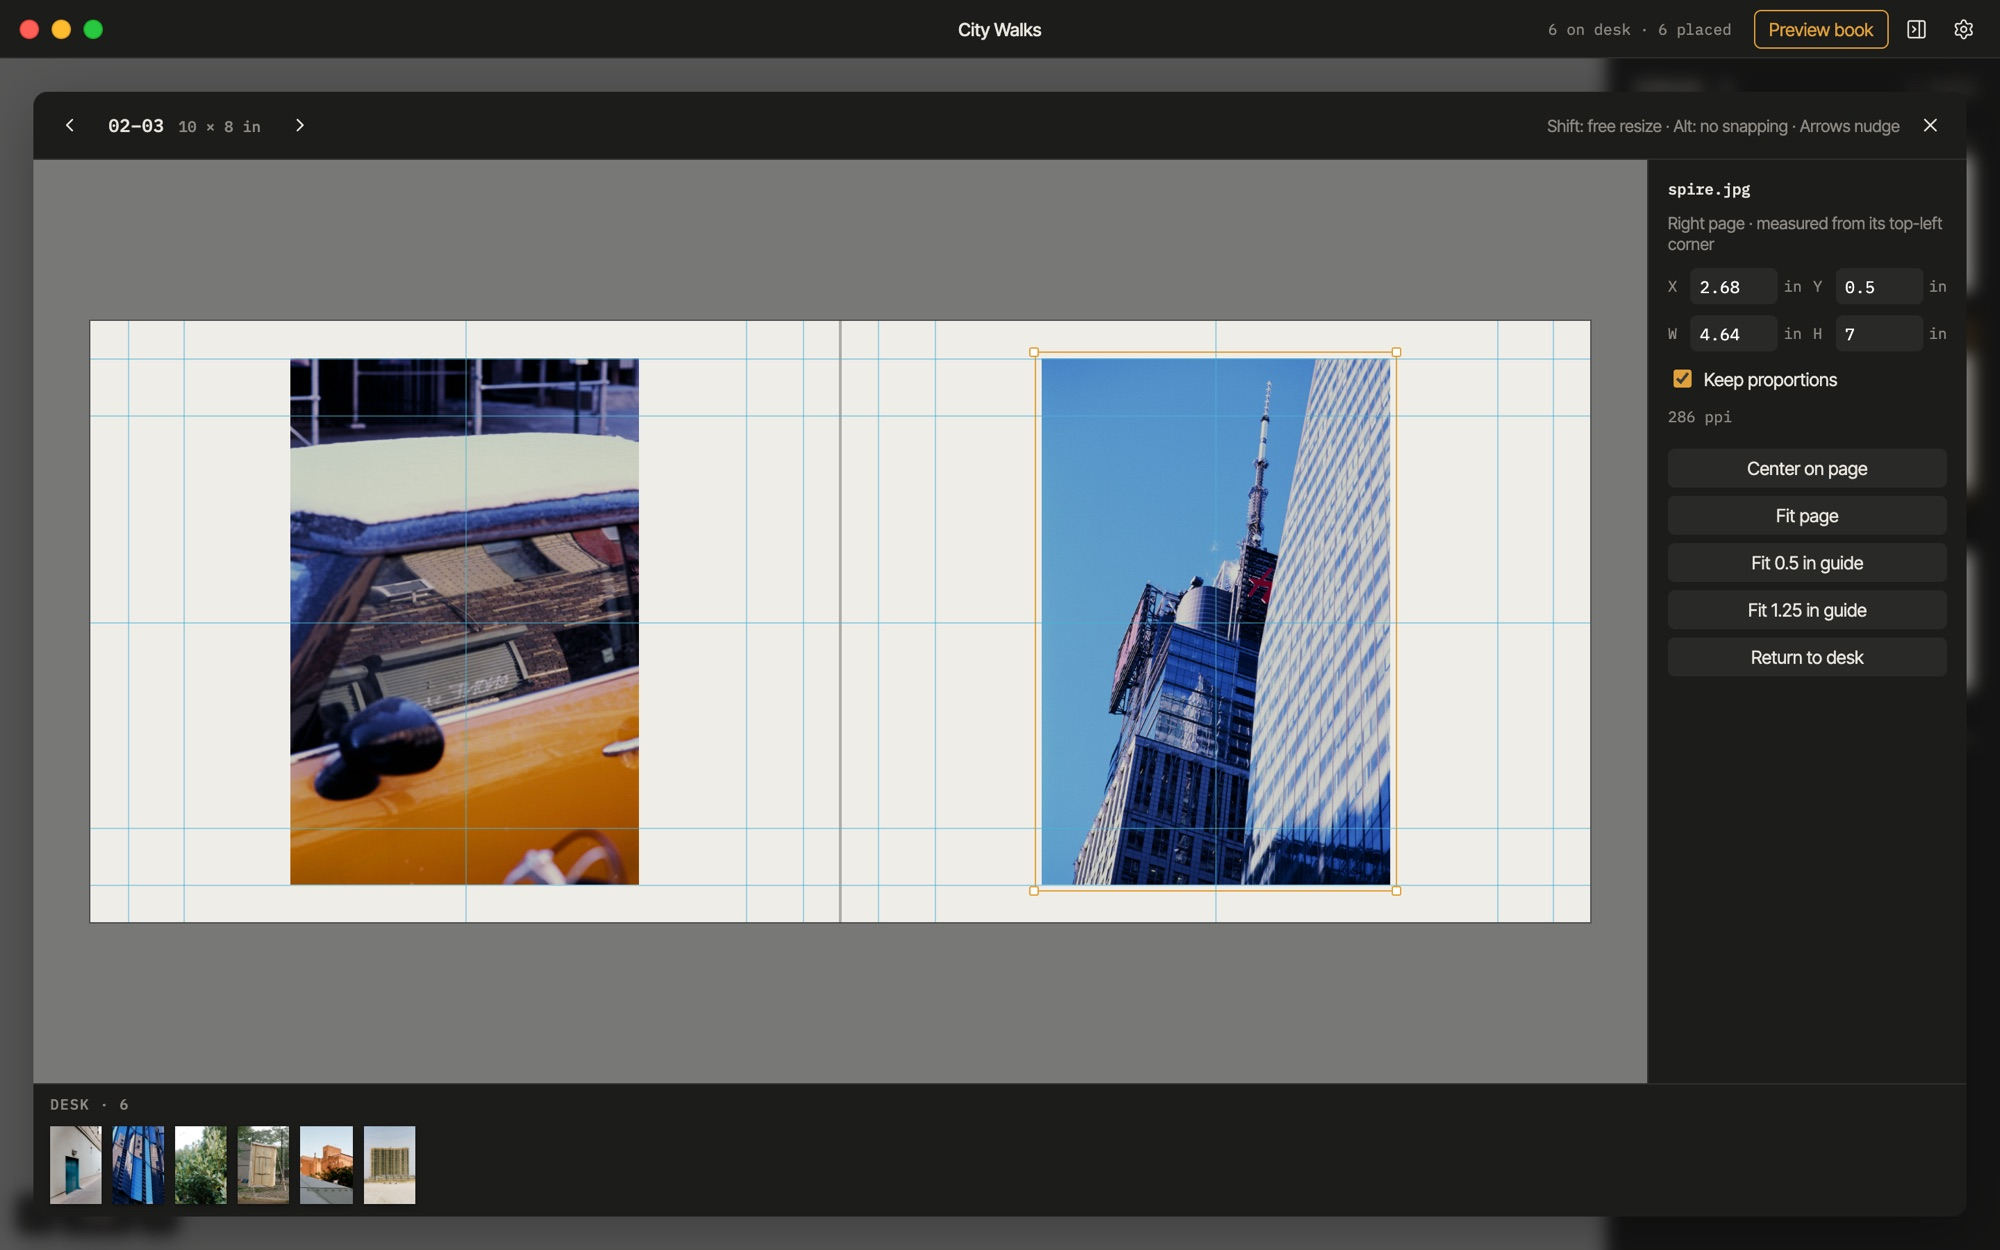
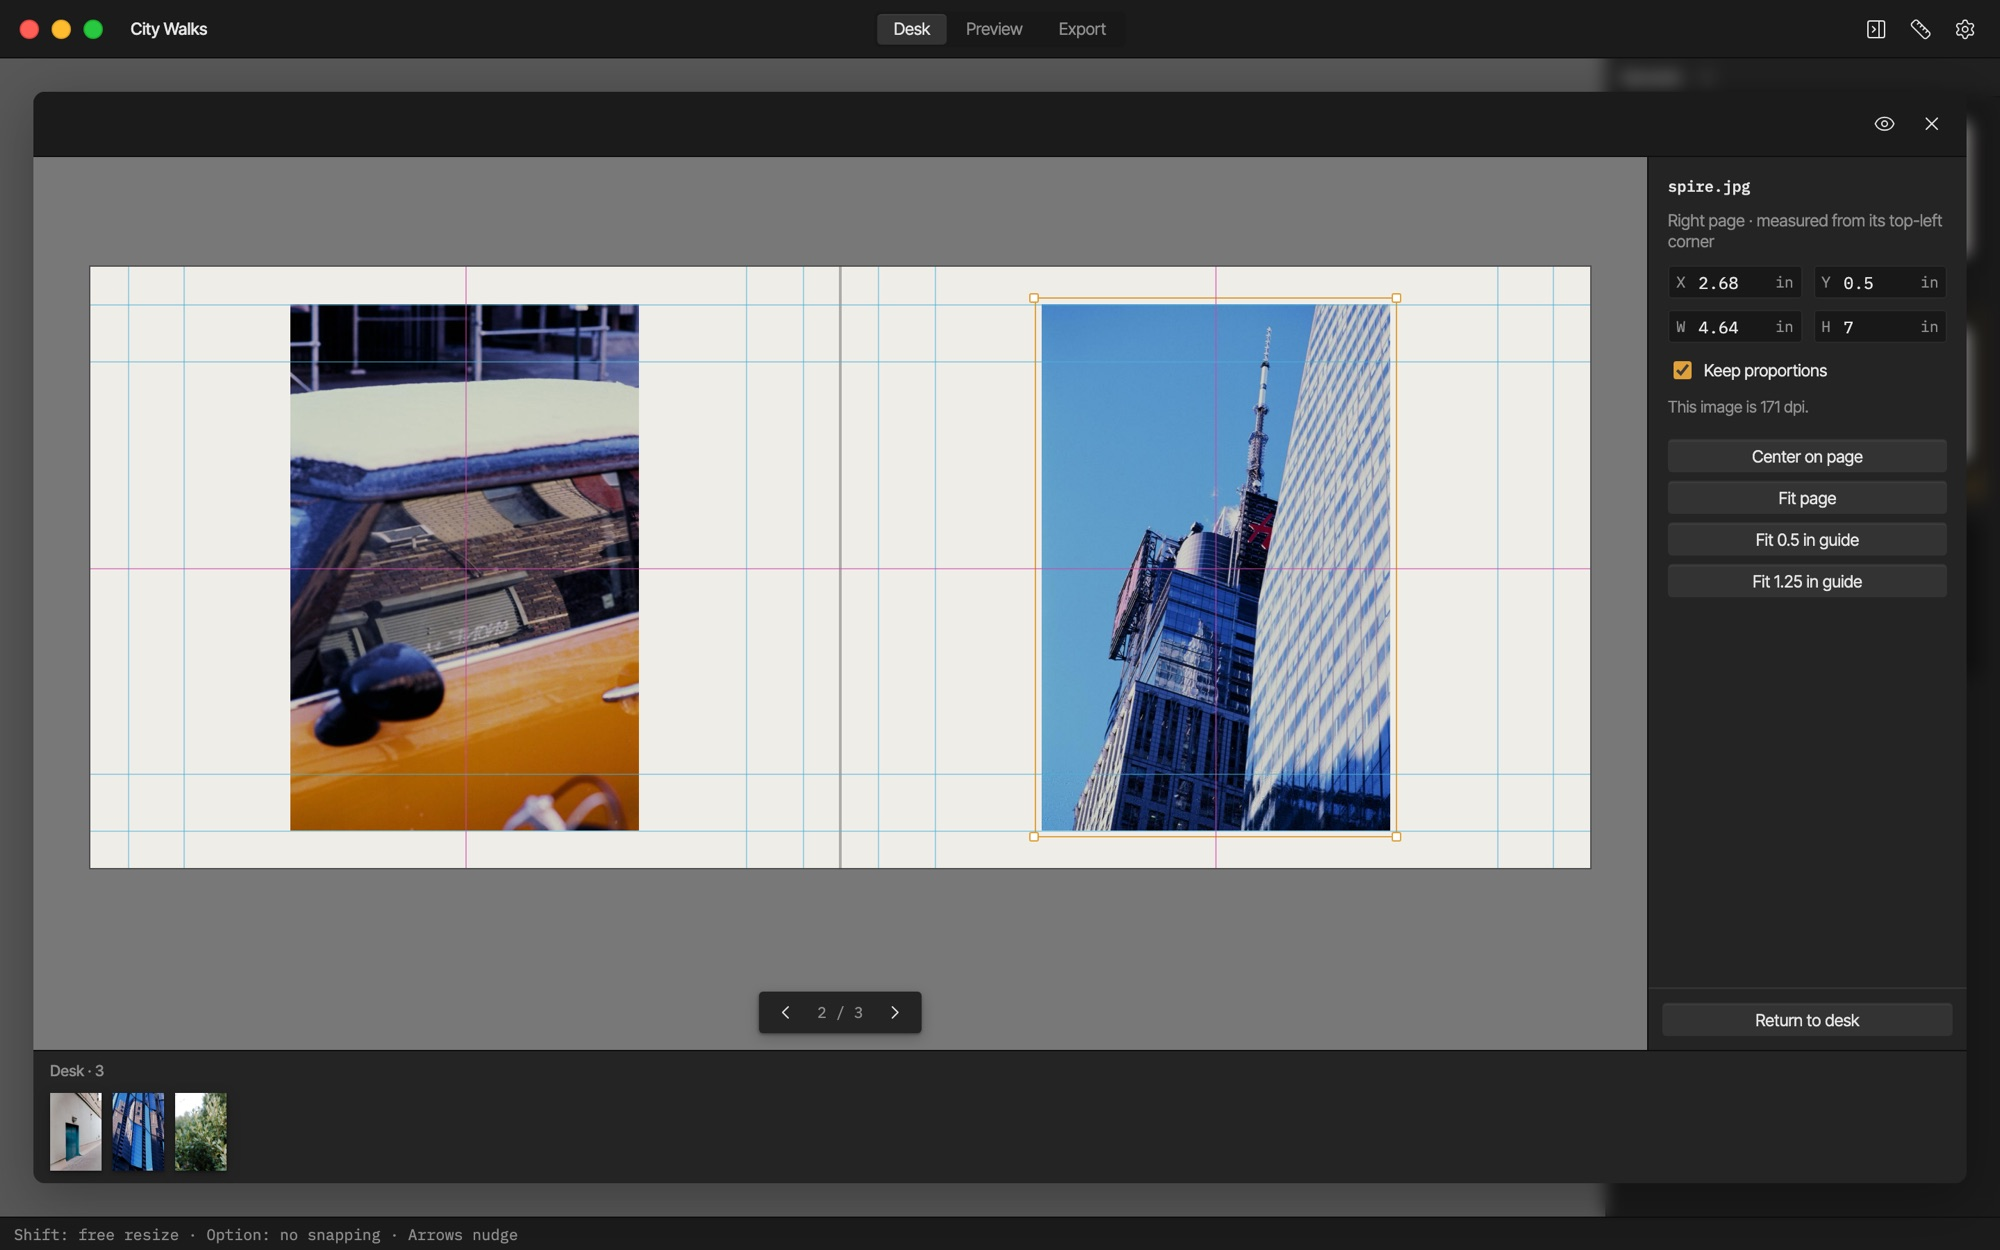
Screenshots for 2.0: npm run screenshots retakes the App Store's (now with Export), the README's, and the landing page's from the Mac app's interface, with the six sample photos; a skill for it in .claude/skills/screenshots

diff --git a/.claude/skills/screenshots/SKILL.md b/.claude/skills/screenshots/SKILL.md
@@ -1,0 +1,44 @@
+---
+name: screenshots
+description: Retake Sequence's screenshots (App Store, README, landing page) from the current UI with the six sample photos. Use when the UI has changed before a release, or when asked to update, retake, or add screenshots.
+---
+
+# Screenshots
+
+`npm run screenshots` (`scripts/screenshots.mjs`) takes every screenshot from the Mac app's
+interface as it is now: the Mac build's web side (`vite --mode app` on :5176, started if it
+isn't running) in headless Chromium at 1440 × 900 pt @2x, with Tauri stubbed out and the
+traffic lights drawn in. The project is "City Walks": the six sample photos in `src/tour/`,
+three on the desk and three placed in a four-page book at 150 dpi (so nothing is marked low
+resolution). Dark theme. It writes:
+
+| File                                         | Use                                        |
+| -------------------------------------------- | ------------------------------------------ |
+| `docs/app-store/1-desk.png` … `5-export.png` | App Store Connect (2880 × 1800, Mac 16:10) |
+| `docs/screenshot.jpg`                        | The README (the desk)                      |
+| `site/landing/landing-*.jpg`                 | The landing page's four (2000 × 1250)      |
+
+## Steps
+
+1. Run it: `npm run screenshots`. `--only desk,preview` retakes some (matched against the
+   names: desk, spread, preview, quick, export). `--photos <dir>` uses larger copies of the
+   samples (same file names) for sharper shots; ask the user for them if the shots look soft.
+2. Look at every PNG (downscale with `sips -Z 1440` to a scratch folder first) before
+   committing: nothing cut off, no warnings or empty states that weren't meant, the traffic
+   lights clear of the toolbar's content, text legible.
+3. If the UI changed shape (a class name, a page, a store), fix the script rather than
+   editing images: it reaches into the app through its own modules (served under
+   `/@fs/<repo>/src/`, so the script shares the app's module instances; plain `/src/...`
+   would load second copies).
+4. If a shot was added, removed, or reordered: the landing page's `<img>`s and captions in
+   `site/index.html` match the four `landing-*` files; App Store Connect takes up to 10.
+5. Commit the images with the script change (if any).
+
+## Rules
+
+- Only the six sample photos in `src/tour/` (or larger copies of the same six from the
+  user). Never other photos, the user's own files, or the Mac app's real data.
+- The script uses a throwaway browser profile; it doesn't touch the dev server's data on
+  :5175 or anything else.
+- App Store screenshots must show the app as it ships: don't stage features that aren't in
+  the build.

diff --git a/AGENTS.md b/AGENTS.md
@@ -69,7 +69,8 @@ when the Mac app, saving, or exports change. The first `test:e2e` needs
 - The dev server's data is disposable test data: change or reset it freely. Never touch the
   Mac app's real data or the user's own photos and files.
 - Public materials (screenshots, the landing page, the tour) use only the six sample photos
-  in `src/tour/`.
+  in `src/tour/`. `npm run screenshots` retakes the App Store's, the README's, and the landing
+  page's (see `.claude/skills/screenshots/`).
 - Never paste secrets into code, logs, or chat. Server secrets are set by the owner with
   `wrangler secret put`.
 - Local secrets go only in git-ignored names: `.env.local` (or `.env.*.local`), or the

diff --git a/docs/releasing.md b/docs/releasing.md
@@ -38,7 +38,8 @@ The App Store workflow also runs when a GitHub release is published by hand (its
 certificates, provisioning profile, and API key it needs are Actions secrets; its header lists
 them.
 
-Before a release, go through [testing.md](testing.md).
+Before a release, go through [testing.md](testing.md). If the UI changed, retake the screenshots
+(`npm run screenshots`) and upload `docs/app-store/*.png` to the version in App Store Connect.
 
 ### By hand
 
